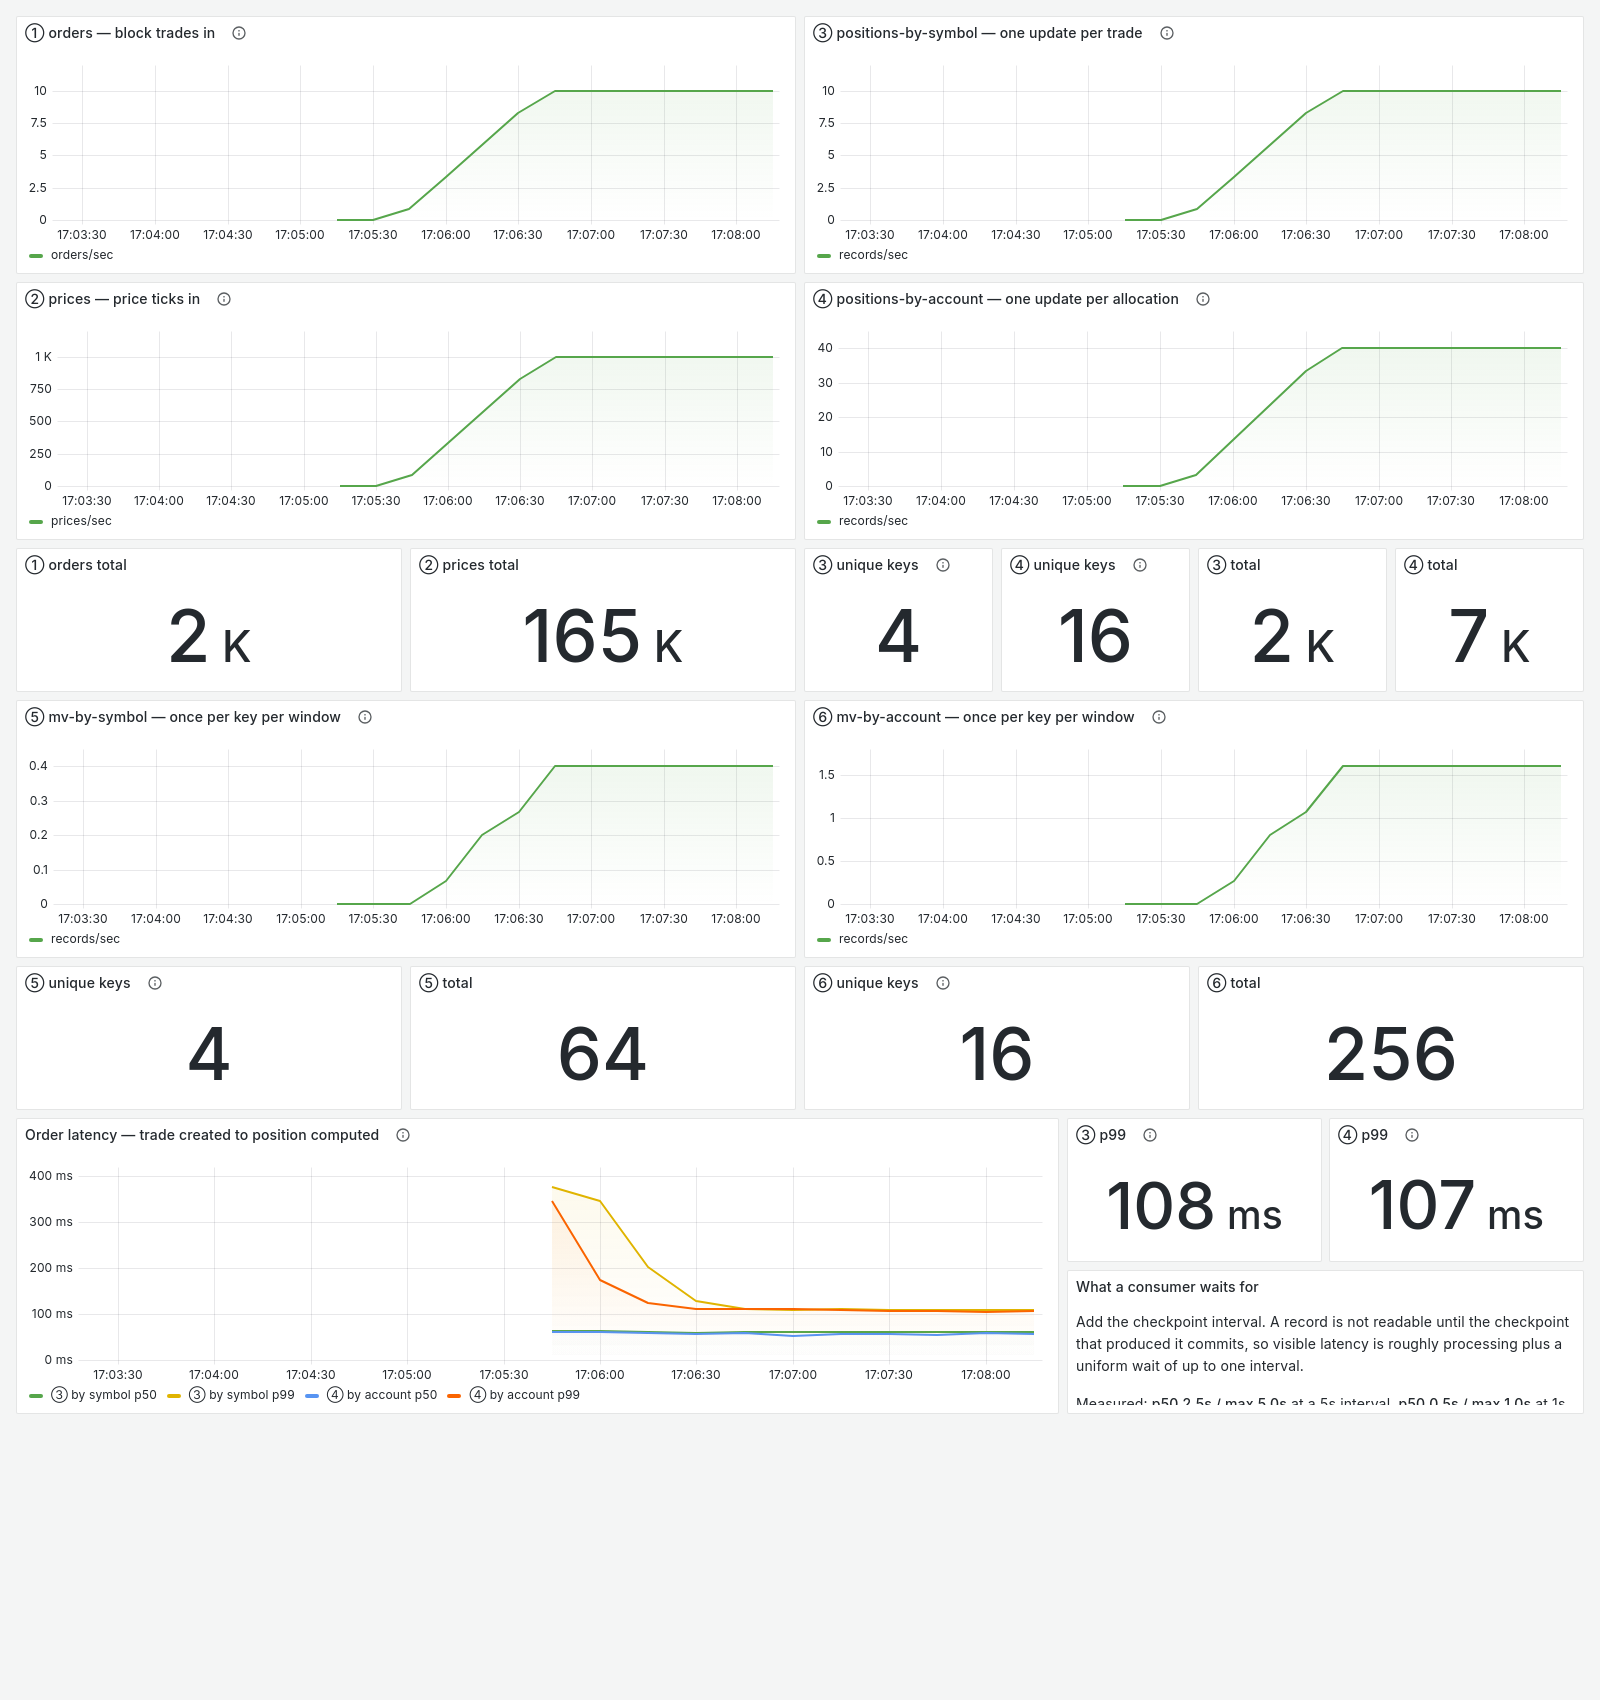
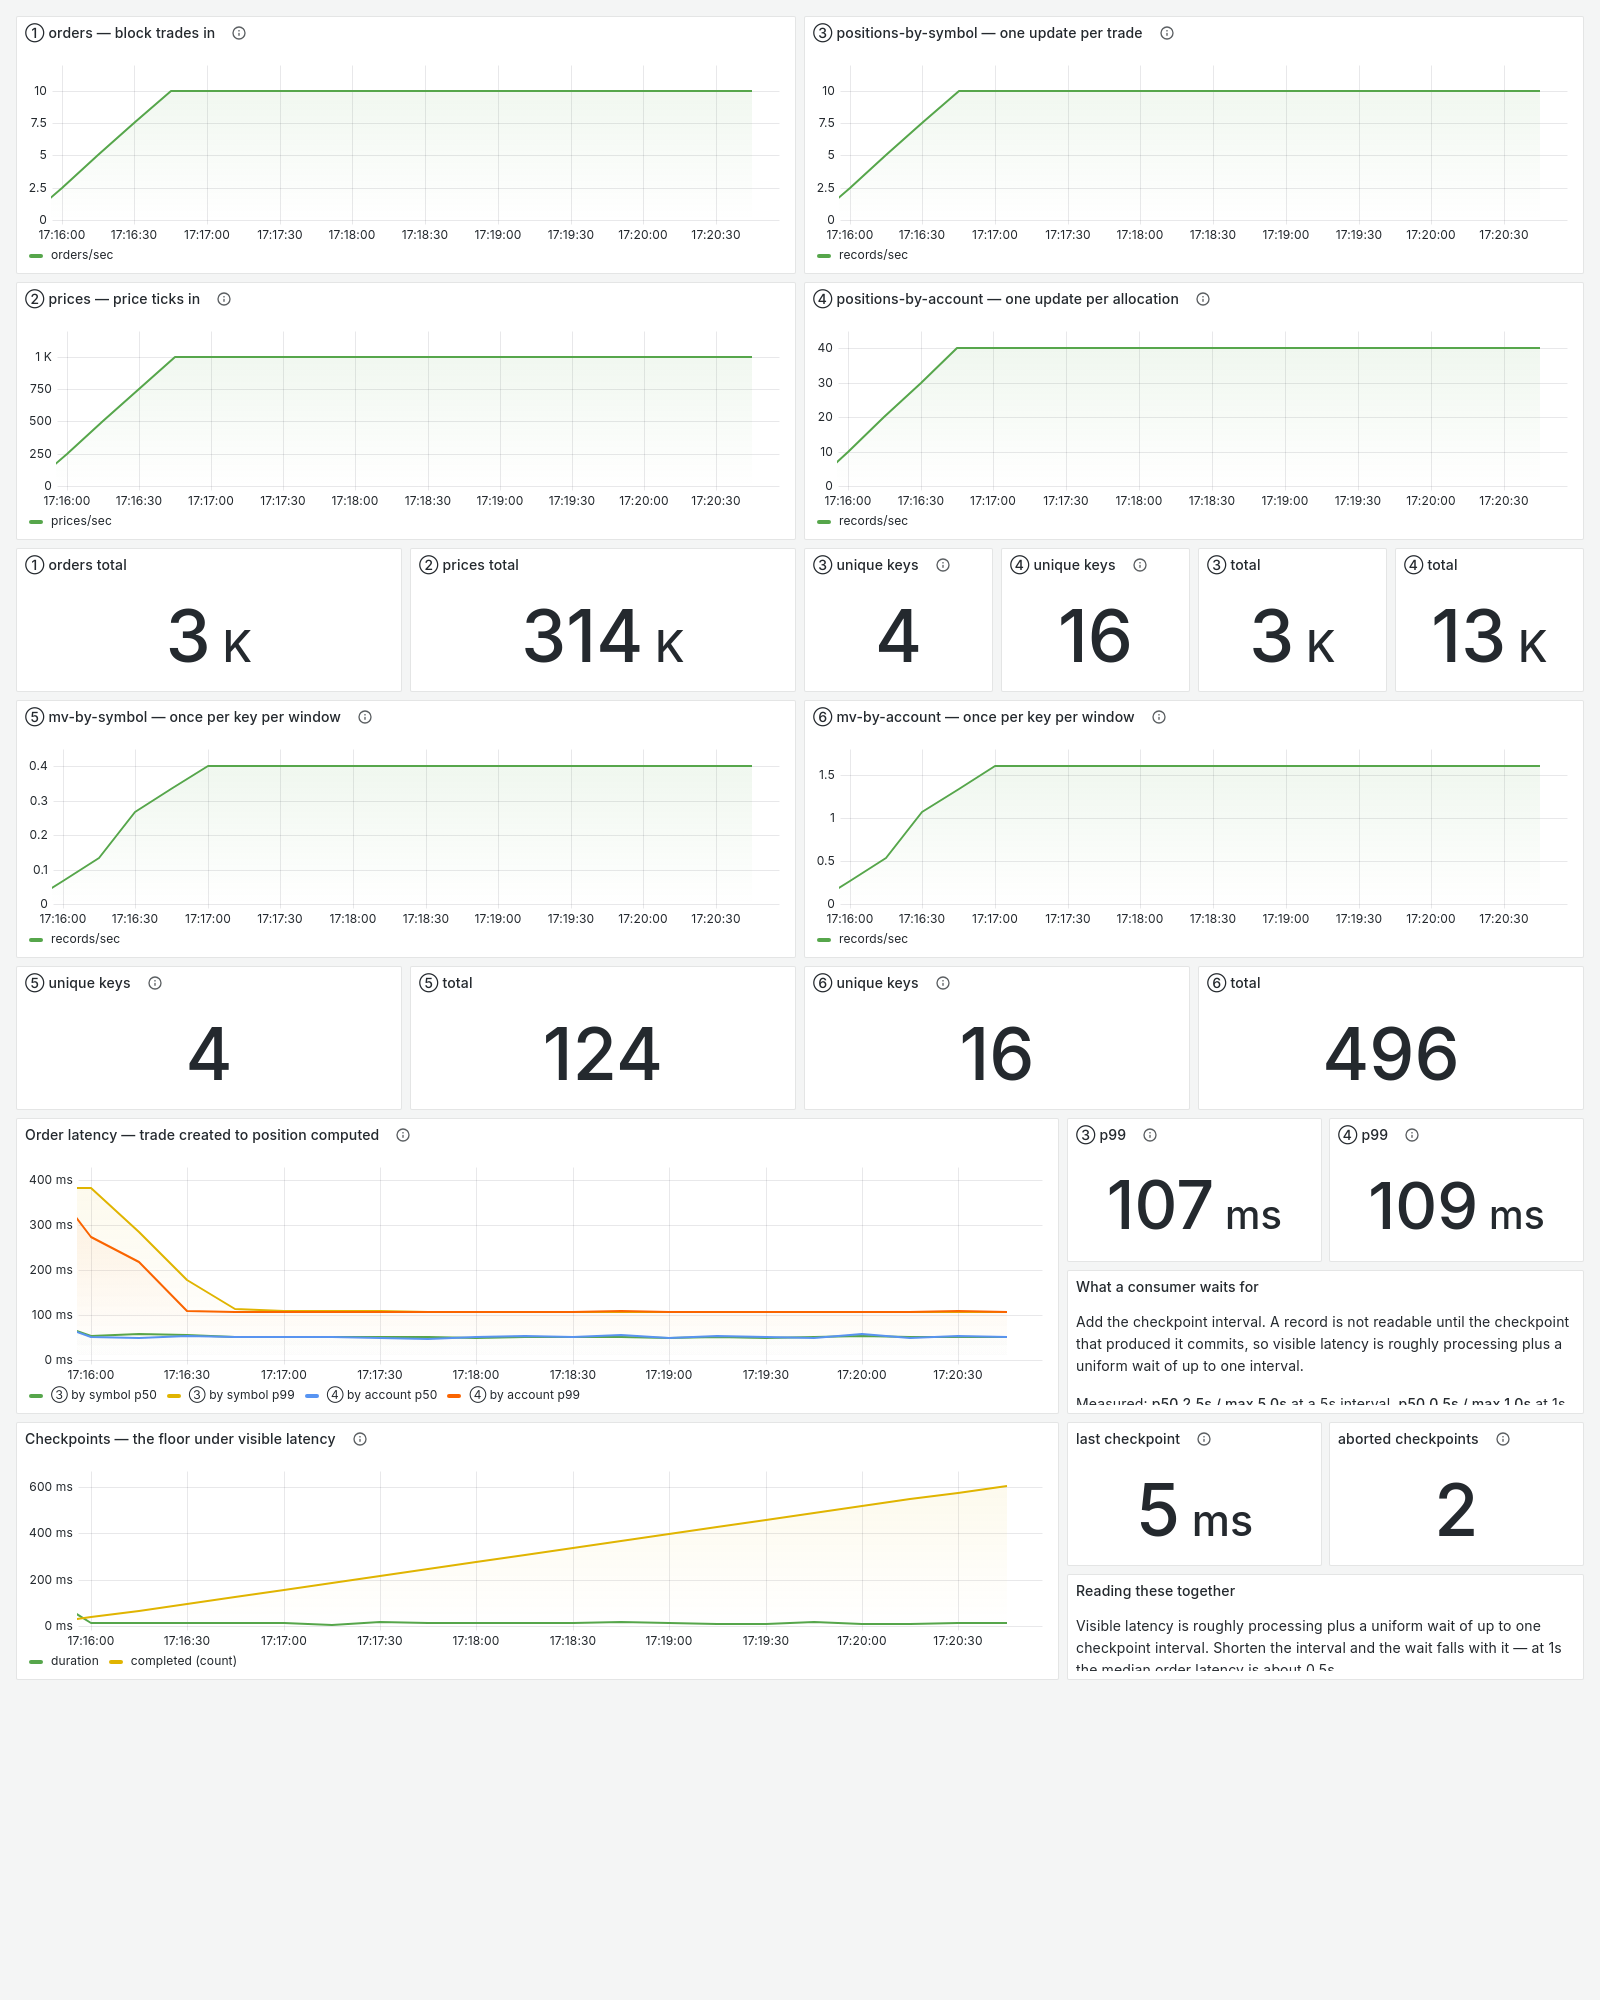
Step 09 review: one-second checkpoints, market value latency, checkpoint charts
The checkpoint interval is now one second by default, in the job and in the local
stack. Order latency falls from a median of 2488ms to 518ms, with the maximum
landing inside one interval as it did before.

Market value latency is now reported, measured from the window close rather than
the trade because the window is the specification and not a delay to account for.
It steps rather than spreads and the figures show it: p95, p99 and the maximum
are the same number, since every key in a window is emitted at the same boundary
and shares an age.

Checkpoints are charted next to the latency they explain, which settled what the
cost actually is: a checkpoint takes about 13ms against a one-second interval, so
the interval between them is what costs and not the checkpoint.

Charting them also surfaced one aborted checkpoint per job at startup, where the
first checkpoint triggers before every task is running. It is harmless, but the
panel had been written to say that any non-zero count meant the guarantee was
being retried -- which would have raised a false alarm in the middle of a demo.
The panel now says what the number means and the runbook has an answer ready.

Claude-Session: https://claude.ai/code/session_01AjapJuaeAp3sRNXvHzMkVB

diff --git a/jobs/src/main/java/io/github/jimzucker/flinktraining/job/JobConfig.java b/jobs/src/main/java/io/github/jimzucker/flinktraining/job/JobConfig.java
@@ -41,8 +41,13 @@ public record JobConfig(
      * readable until the checkpoint that produced it commits, so this is also the
      * granularity at which the dashboard advances and a floor under end-to-end
      * latency.
+     *
+     * <p>One second, measured rather than guessed: at five it put the median
+     * order latency at 2.5s, and at one it puts it at 0.5s, with the maximum
+     * landing inside one interval either way. The cost is checkpointing five
+     * times as often, which the scale step is where to look at.
      */
-    public static final long DEFAULT_CHECKPOINT_INTERVAL_MS = 5_000L;
+    public static final long DEFAULT_CHECKPOINT_INTERVAL_MS = 1_000L;
 
     /**
      * Must outlast a checkpoint, or a transaction expires before it can commit,

diff --git a/docs/reviews/step-09.md b/docs/reviews/step-09.md
@@ -1,0 +1,47 @@
+# Step 09 — Latency: review
+
+## Round 1
+
+### Asked
+
+1. Which checkpoint interval should the demo use? 5s is the default; 1s makes
+   latency five times better but checkpoints five times as often.
+2. Is a median of 2.5s acceptable for "latency for orders is low"?
+3. Market value latency is not reported, since its delay is the window rather
+   than a cost. Is that the right call?
+
+### Feedback
+
+> 3 we should show it in will like steps that's expected/ 1 - change to 1 sec/
+> do we chart checkpoints?
+
+### Actions
+
+| Feedback | Action |
+|---|---|
+| Show market value latency; steps are expected | Measured from the window close and reported. It does step: p95, p99 and the maximum are the same number, because every key in a window is emitted at the same boundary and shares an age |
+| Change the checkpoint interval to one second | Now the default, in the job and in the local stack. Order latency drops from p50 2488ms to **518ms**, with the maximum inside one interval as before |
+| Chart checkpoints | Duration and completed count are charted next to the latency they explain, with the aborted count alongside |
+
+### What charting checkpoints turned up
+
+Two things, immediately.
+
+A checkpoint takes about **13 milliseconds** against a one-second interval, which
+settles what the cost actually is: the interval between checkpoints, not the
+checkpoints themselves.
+
+And the dashboard showed one **aborted** checkpoint per job. With a one-second
+interval the first checkpoint triggers before every task is running and is
+aborted; the count then stays put while completed checkpoints climb into the
+hundreds. Harmless — but the panel had been written to say that any non-zero
+count meant the guarantee was being retried, which would have raised a false
+alarm in the middle of a demo. The panel now says what the number means and the
+runbook has an answer ready.
+
+Question 2 went unanswered. At a one-second interval the median is about half a
+second, which is a more comfortable answer to "is latency low" than 2.5s was.
+
+### Outcome
+
+Approved. Squash-merged to `main`, tagged `step-09`.

diff --git a/docs/steps/step-09/latency.md b/docs/steps/step-09/latency.md
@@ -41,6 +41,47 @@ Five times shorter, five times lower, and max lands within one interval each
 time. That is what a uniform wait for the next commit looks like, and it is
 the strongest evidence that the delay is the guarantee rather than the work.
 
+## After moving to a one-second checkpoint
+
+The interval is now one second by default, on review. Same code, same rates:
+
+```
+orders                 p50=8      p95=14     p99=20     max=27      (ms)
+positions-by-symbol    p50=518    p95=927    p99=1020   max=1025    (ms)
+positions-by-account   p50=515    p95=927    p99=1014   max=1036    (ms)
+```
+
+The maximum lands inside one interval, as it did at five seconds. A checkpoint
+itself takes about **13ms**, so what costs is the interval between them and not
+the checkpoint.
+
+## Market value
+
+Measured from the window close rather than from the trade, because the window is
+the specification and not a delay to account for:
+
+```
+mv-by-symbol           n=12     p50=684    p95=1709   p99=1709   max=1709    (ms)
+mv-by-account          n=48     p50=689    p95=1684   p99=1684   max=1684    (ms)
+```
+
+These step rather than spread, and the figures say so: p95, p99 and the maximum
+are the same number. Every key in a window is emitted at the same boundary, so
+they share an age — there is no tail to speak of, only a handful of distinct
+values.
+
+## An aborted checkpoint at startup
+
+The dashboard shows one aborted checkpoint per job. It happens at startup: with a
+one-second interval the first checkpoint triggers before every task is running
+and is aborted, after which the count stays put while completed checkpoints climb
+into the hundreds.
+
+Harmless, but worth naming. The panel originally said any non-zero count meant
+the guarantee was being retried, which would have raised a false alarm in the
+middle of a demo — the panel now says what the number actually means, and the
+runbook has an answer ready.
+
 ## The trade being made
 
 A position is a running sum, so a record replayed after a failure is a wrong

diff --git a/README.md b/README.md
@@ -289,9 +289,12 @@ being computed.
 ```
 
 ```
-orders                 p50=9      p99=17     max=22      (ms)
-positions-by-symbol    p50=2488   p99=4981   max=4988    (ms)
-positions-by-account   p50=2524   p99=4985   max=5024    (ms)
+orders                 p50=8      p99=20     max=27      (ms)
+positions-by-symbol    p50=518    p99=1020   max=1025    (ms)
+positions-by-account   p50=515    p99=1014   max=1036    (ms)
+
+mv-by-symbol           p50=684    p99=1709   max=1709    (ms)   from window close
+mv-by-account          p50=689    p99=1684   max=1684    (ms)
 ```
 
 The input path is single-digit milliseconds. The positions are not, and the
@@ -304,16 +307,19 @@ The checkpoint interval is that floor, and it behaves exactly like one:
 | Checkpoint interval | p50 | max |
 |---|---|---|
 | 5s | 2488 ms | 4988 ms |
-| 1s | **497 ms** | **1041 ms** |
+| 1s (default) | **518 ms** | **1025 ms** |
 
-```bash
-CHECKPOINT_INTERVAL_MS=1000 docker compose -f docker/compose.yml up -d
-```
+A checkpoint itself takes about 13ms, so what costs is the interval between them,
+not the checkpoint. Both are charted, next to the latency they explain.
 
 This is a trade, not a defect. A position is a running sum, so a record replayed
 after a failure is a wrong number rather than a duplicate — exactly-once prevents
-that, and the wait is its price. Market value latency is not reported: its delay
-is the window, which is the specification rather than a cost.
+that, and the wait is its price.
+
+Market value is measured from the **window close**, since the window is the
+specification rather than a delay. Its figures step rather than spread — p95, p99
+and the maximum are the same number, because every key in a window is emitted at
+the same boundary and so shares an age.
 
 ## Scale results
 

diff --git a/JOURNAL.md b/JOURNAL.md
@@ -960,4 +960,25 @@ explainable rather than merely stated.
 
 ### Review
 
-_Pending._
+Round 1: show market value latency, move the checkpoint interval to one second,
+and chart checkpoints.
+
+- **Market value is now measured**, from the window close rather than the trade,
+  since the window is the specification and not a delay. It steps rather than
+  spreads, and the figures say so — p95, p99 and the maximum are the same number,
+  because every key in a window is emitted at the same boundary and shares an age.
+- **One second is now the default.** Order latency falls from p50 2488ms to
+  **518ms**, with the maximum inside one interval as before.
+- **Checkpoints are charted** next to the latency they explain, which settled what
+  the cost actually is: a checkpoint takes about 13ms against a one-second
+  interval, so the interval between them is what costs.
+
+Charting them also surfaced one aborted checkpoint per job at startup — the first
+checkpoint triggers before every task is running. Harmless, but the panel had
+been written to say any non-zero count meant the guarantee was being retried,
+which would have raised a false alarm mid-demo. The panel now says what the
+number means and the runbook has an answer ready.
+
+Full exchange: [`docs/reviews/step-09.md`](../docs/reviews/step-09.md)
+
+**Outcome:** approved, squash-merged to `main`, tagged `step-09`.

diff --git a/docs/demo-runbook.md b/docs/demo-runbook.md
@@ -148,6 +148,12 @@ question before it becomes an argument.
 ./scripts/measure-latency.sh
 ```
 
+**Why does the dashboard show an aborted checkpoint?**
+One per job, at startup. With a one-second interval the first checkpoint triggers
+before every task is running and is aborted; the count then stays put while
+completed checkpoints climb. A count that keeps rising during a run would be the
+thing to worry about.
+
 **Are the positions ever negative?**
 Yes. Buys add and sells subtract, so a key whose sells exceed its buys holds a
 short. Seeing negatives is evidence the sign handling is live.
